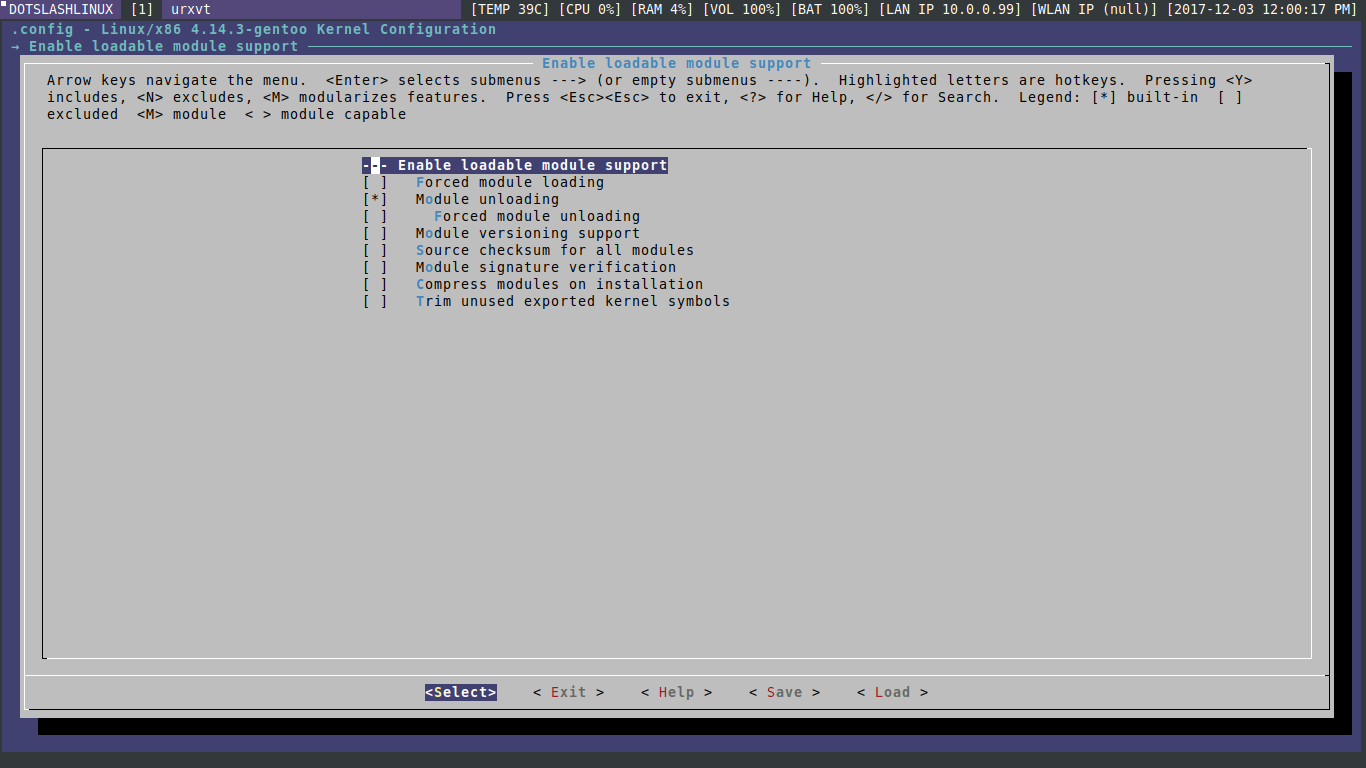
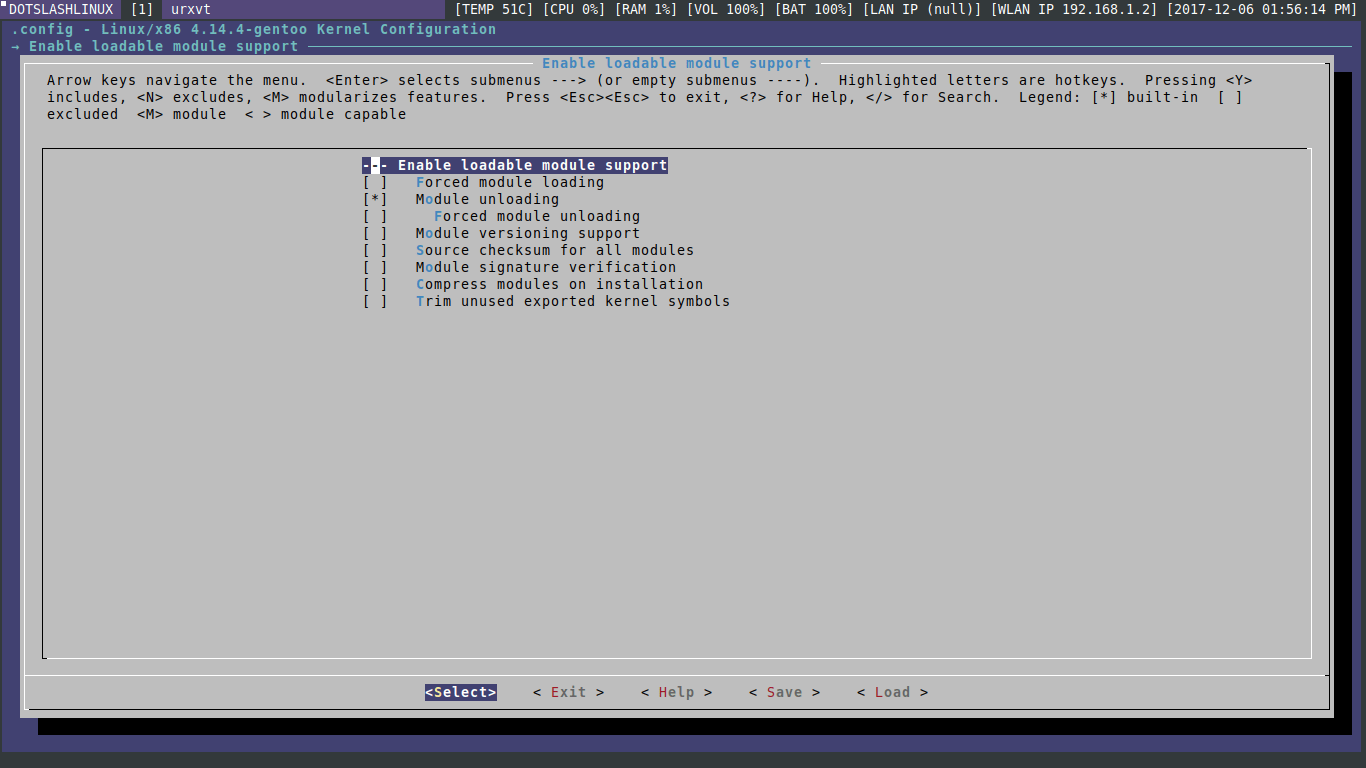
Updated Kernel Version to 4.14.4

Changed region(s): [[0.3075, 0.0, 0.8302, 0.0312], [0.9224, 0.0, 0.9531, 0.0312]]

diff --git a/layouts/_default/single.html b/layouts/_default/single.html
@@ -3,9 +3,9 @@
 <div class="box kernelmap">
   <pre><code class="language-properties">Kernel Sources:       sys-kernel/gentoo-sources
 
-Kernel Version:       4.14.3
+Kernel Version:       4.14.4
 
-Last Updated on:      03/12/2017
+Last Updated on:      06/12/2017
 
 Update Notice:        1- Added 'CONFIG_X86_5LEVEL' to 'Processor type and features  --->'
                       2- Added 'CONFIG_ORC_UNWINDER' to 'Kernel hacking  --->'
